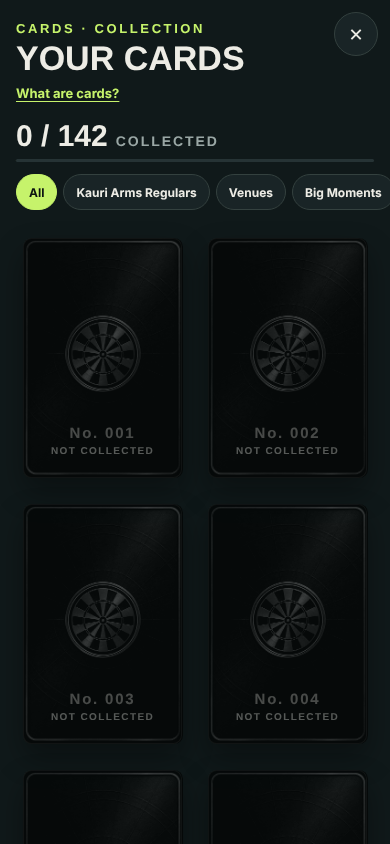
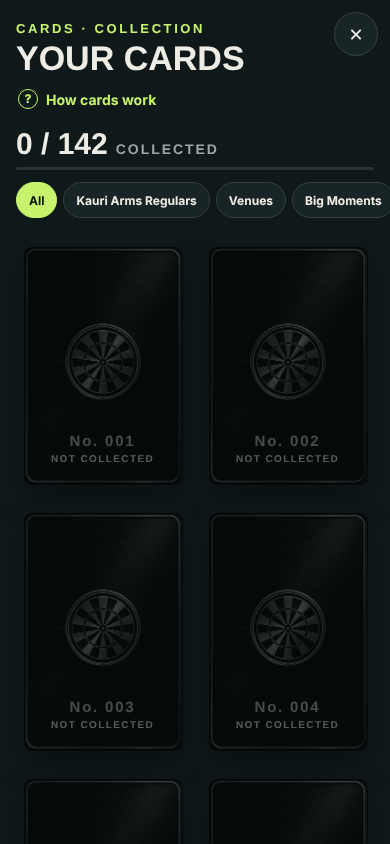
#13 round 2 (ChatGPT 7.8): shorter welcome copy, compact bottom-sheet explainer clear of the close button, How cards work link with a 44px target
Claude-Session: https://claude.ai/code/session_01WmQEKVsLutVo52VGmj2r97

diff --git a/tc/core.js b/tc/core.js
@@ -283,14 +283,15 @@
   function cardsIntro(then) {
     const el = sheet('tc-intro', `<div class="tcpk__kicker">Cards</div><h2 class="tc-h">What are cards?</h2>
       <ol class="tc-introl">
-        <li><b>Earn a pick</b><span>Big moments earn a card pick: a 180, a 100+ checkout, a nine-darter, achievements and stat milestones.</span></li>
-        <li><b>Keep one of three</b><span>Each pick deals three cards and you keep one. A nine-darter keeps all three.</span></li>
-        <li><b>Unlock rewards</b><span>Many cards unlock kit, wearables, celebrations and titles. Equip them in Player · Loadout. Finishing a set unlocks more.</span></li>
-        <li><b>Find them</b><span>Everything you own is in Cards on the Career tab. Spare legendaries can be swapped with mates.</span></li>
+        <li><b>Earn picks</b><span>Hit 180s, check out 100+, or complete achievements.</span></li>
+        <li><b>Keep one of three</b><span>Three cards appear. Pick one to keep. Nine&#8209;darter? Keep all three.</span></li>
+        <li><b>Unlock rewards</b><span>Many cards unlock kit and celebrations. Equip them in Player · Loadout.</span></li>
+        <li><b>Find them</b><span>Your collection is in Career → Cards.</span></li>
       </ol>
       <button type="button" class="tcpk__btn tcpk__btn--go tc-introgo">${then ? 'Open my picks' : 'Got it'}</button>`);
+    const x = el.querySelector('.tc-x'); el.querySelector('.tc-sh-in').appendChild(x);
     let gone = false; const go = () => { if (gone) return; gone = true; el.classList.add('out'); setTimeout(() => el.remove(), 200); then && then(); };
-    el.querySelector('.tc-introgo').onclick = go; el.querySelector('.tc-x').onclick = go;
+    el.querySelector('.tc-introgo').onclick = go; x.onclick = go; el.addEventListener('click', e => { if (e.target === el) go(); });
     return el;
   }
   function openPack(picks, after) {
@@ -368,8 +369,8 @@
     const el = sheet('tc-welcome', `<div class="tc-wel"><div class="tc-wel-fan"><img src="assets/cards/back.webp" alt=""><img src="assets/cards/back.webp" alt=""><div class="tc-wel-peek"></div></div>
       <div class="tcpk__kicker">New in TOPS</div><h2 class="tc-h">Cards are here</h2>
       <div class="tc-wel-big"><b>${info.picks}</b><span>picks earned</span></div>
-      <p>${info.ach ? `From the ${info.ach} achievement${info.ach > 1 ? 's' : ''} you've already completed. ` : ''}From now on every 180, ton-plus checkout and achievement earns another.</p>
-      <ul class="tc-wel-how"><li><b>Keep one of three.</b> Each pick deals three cards and you keep one.</li><li><b>Unlock rewards.</b> Many cards unlock kit, wearables, celebrations and titles. Equip them in Player · Loadout.</li><li><b>Find them.</b> Everything you own is in Cards on the Career tab.</li></ul>
+      ${info.ach ? `<p>From the ${info.ach} achievement${info.ach > 1 ? 's' : ''} you've already completed.</p>` : ''}
+      <ul class="tc-wel-how"><li><b>Keep one of three.</b> Each pick deals three cards. You keep one.</li><li><b>Earn more.</b> 180s, 100+ checkouts and achievements.</li><li><b>Unlock rewards.</b> Many cards unlock kit and celebrations for Player · Loadout.</li><li><b>Find them</b> in Career → Cards.</li></ul>
       <button type="button" class="tcpk__btn tcpk__btn--go" id="tcWelGo">Open ${info.picks} picks</button><button type="button" class="tcpk__later" id="tcWelLater">Later</button></div>`);
     const pk = TCC.card(peek); pk.classList.add('is-flipped'); el.querySelector('.tc-wel-peek').appendChild(pk);
     save.tcIntro = save.tcIntro || Date.now(); keep(); // #13: the welcome carries the explainer, so no second sheet before the first pick
@@ -413,7 +414,7 @@
   function binder() {
     const t = st(); let filt = 'all';
     const nO = D.CARDS.filter(c => !c.exclusive && t.own[c.id]).length, nA = D.CARDS.filter(c => !c.exclusive).length;
-    const el = sheet('tc-binder', `<div class="tcpk__kicker">Cards · Collection</div><h2 class="tc-h">Your cards</h2><button type="button" class="tc-whatbtn" id="tcWhat">What are cards?</button><div class="tc-prog"><b>${nO} / ${nA}</b><span>Collected</span></div><i class="tc-progbar" style="--p:${nO / nA};display:block"></i>${t.srv ? `<button type="button" class="tc-tradebtn" id="tcTradeBtn"><i>⇄</i><span><b>Trades</b><small>Swap spare legendaries with your mates</small></span><em class="tc-tradebadge" hidden></em><i class="tc-chev">›</i></button>` : ''}<div class="tc-chips" id="tcChips"></div><div class="tc-grid" id="tcGrid"></div><div class="tc-sets" id="tcSets"></div>`);
+    const el = sheet('tc-binder', `<div class="tcpk__kicker">Cards · Collection</div><h2 class="tc-h">Your cards</h2><button type="button" class="tc-whatbtn" id="tcWhat"><i>?</i>How cards work</button><div class="tc-prog"><b>${nO} / ${nA}</b><span>Collected</span></div><i class="tc-progbar" style="--p:${nO / nA};display:block"></i>${t.srv ? `<button type="button" class="tc-tradebtn" id="tcTradeBtn"><i>⇄</i><span><b>Trades</b><small>Swap spare legendaries with your mates</small></span><em class="tc-tradebadge" hidden></em><i class="tc-chev">›</i></button>` : ''}<div class="tc-chips" id="tcChips"></div><div class="tc-grid" id="tcGrid"></div><div class="tc-sets" id="tcSets"></div>`);
     { const tb = el.querySelector('#tcTradeBtn'); if (tb) { tb.onclick = () => trades(); tradeCount().then(n => { const b = tb.querySelector('.tc-tradebadge'); if (n) { b.hidden = false; b.textContent = n + ' new'; } }); } }
     el.querySelector('#tcWhat').onclick = () => cardsIntro(null);
     const chips = el.querySelector('#tcChips'), grid = el.querySelector('#tcGrid');

diff --git a/wip/scripts/cards13.js b/wip/scripts/cards13.js
@@ -28,7 +28,7 @@ const r={};
  await clickSel(p,'#tcWelLater');await p.waitForTimeout(500);r.welcomeDismissed=await p.evaluate(()=>!document.querySelector('.tc-welcome'));
  await p.evaluate(()=>{delete save.tcIntro;TC_API.award('c13b:'+Date.now(),'max','180');window.tcOpenPicks();});await p.waitForTimeout(700);
  r.existingSheet=await p.evaluate(()=>{const e=document.querySelector('.tc-intro');return e?{rows:e.querySelectorAll('.tc-introl li').length,btn:(e.querySelector('.tc-introgo')||{}).textContent}:null;});
- await shot(p,'intro');
+ await shot(p,'intro');r.introNoClash=await p.evaluate(()=>{const h=document.querySelector('.tc-intro .tc-h').getBoundingClientRect(),x=document.querySelector('.tc-intro .tc-x').getBoundingClientRect();const t=document.createRange();t.selectNodeContents(document.querySelector('.tc-intro .tc-h'));const tr=t.getBoundingClientRect();return tr.right<=x.left-4||tr.bottom<=x.top||tr.top>=x.bottom;});r.introFits=await p.evaluate(()=>{const g=document.querySelector('.tc-intro .tc-introgo').getBoundingClientRect();return g.bottom<=innerHeight;});
  await p.evaluate(()=>{window.__clk=[];document.addEventListener('click',e=>{window.__clk.push((e.target.className||e.target.tagName)+'|'+document.querySelectorAll('.tc-sheet').length);},true);});
  r.introAt=await p.evaluate(()=>{const g=document.querySelector('.tc-intro .tc-introgo');const q=g.getBoundingClientRect();const top=document.elementFromPoint(q.x+q.width/2,q.y+q.height/2);return {btn:[q.x|0,q.y|0,q.width|0,q.height|0],top:top&&String(top.className).slice(0,40),sheets:[...document.querySelectorAll('.tc-sheet')].map(e=>e.className)};});
  await clickSel(p,'.tc-intro .tc-introgo');await p.waitForTimeout(1500);r.clk=await p.evaluate(()=>window.__clk);r.after=await p.evaluate(()=>({sheets:[...document.querySelectorAll('.tc-sheet,.tcpk')].map(e=>e.className.slice(0,30)),picks:TC_API.st().picks.filter(p=>p.chosen==null).length}));
@@ -40,9 +40,9 @@ const r={};
  await p.evaluate(()=>{document.querySelectorAll('.tc-sheet,.tcpk').forEach(e=>e.remove());TC_API.binder();});await p.waitForTimeout(700);
  await shot(p,'binder');
  r.preWhat=await p.evaluate(()=>[...document.querySelectorAll('.tc-sheet,.tcpk')].map(e=>e.className.slice(0,30)));await clickSel(p,'#tcWhat');await p.waitForTimeout(600);
- r.linkBtn=await p.evaluate(()=>{const e=document.querySelector('.tc-intro .tc-introgo');return e&&e.textContent;});
+ await shot(p,'binderhelp');r.whatTap=await p.evaluate(()=>document.getElementById('tcWhat').getBoundingClientRect().height|0);r.linkBtn=await p.evaluate(()=>{const e=document.querySelector('.tc-intro .tc-introgo');return e&&e.textContent;});
  await clickSel(p,'.tc-intro .tc-introgo');await p.waitForFunction(()=>!document.querySelector('.tc-intro'),null,{timeout:5000}).catch(()=>{});
  r.backToBinder=await p.evaluate(()=>!!document.querySelector('.tc-binder')&&!document.querySelector('.tc-intro'));r.bDbg=await p.evaluate(()=>[...document.querySelectorAll('.tc-sheet,.tcpk')].map(e=>e.className.slice(0,30)));
  r.peB=p.pe.slice();await p.close();}
-const pass=r.tile==='Cards'&&r.welcome&&r.welcome.how===3&&r.welcome.intro&&r.welcomeFits&&r.welcomeFits.bottom<=r.welcomeFits.vh&&r.newNoSecondSheet&&r.newPack&&r.existingSheet&&r.existingSheet.btn==='Open my picks'&&r.existingPack&&r.secondTimeNoSheet&&r.linkBtn==='Got it'&&r.backToBinder&&!r.peA.length&&!r.peB.length;
+const pass=r.tile==='Cards'&&r.welcome&&r.welcome.how===4&&r.welcome.intro&&r.welcomeFits&&r.welcomeFits.bottom<=r.welcomeFits.vh&&r.newNoSecondSheet&&r.newPack&&r.existingSheet&&r.existingSheet.btn==='Open my picks'&&r.existingPack&&r.secondTimeNoSheet&&r.linkBtn==="Got it"&&r.backToBinder&&r.introNoClash&&r.introFits&&r.whatTap>=44&&!r.peA.length&&!r.peB.length;
 console.log(tag,pass?'PASS':'FAIL',JSON.stringify(r));await b.close();process.exit(pass?0:1);})();

diff --git a/tc/tc.css b/tc/tc.css
@@ -332,14 +332,19 @@ body.tc-oppwalk .ach-toasts{visibility:hidden}
 .tc-wk-ban em{font-size:13px}.tc-wk-ban span{font-size:12px}
 
 /* #13 What are cards? */
-.tc-wel-how{list-style:none;margin:2px 0 10px;padding:0;max-width:340px;display:grid;gap:7px;text-align:left}
+.tc-wel-how{list-style:none;margin:4px 0 16px;padding:0;max-width:340px;display:grid;gap:8px;text-align:left}
 .tc-wel-how li{font-size:14px;line-height:1.4;color:var(--muted,#9AA7A5)}
 .tc-wel-how b{color:var(--text,#EDECE5);font-weight:800}
-.tc-whatbtn{display:inline-flex;align-items:center;gap:6px;margin:-4px 0 12px;padding:6px 0;background:none;border:0;color:var(--acc,#D8F25A);font:700 13px Manrope,system-ui,sans-serif;cursor:pointer;text-decoration:underline;text-underline-offset:3px}
-.tc-intro .tc-sh-in{max-width:520px;margin:0 auto}
-.tc-introl{list-style:none;counter-reset:ti;margin:6px 0 22px;padding:0;display:grid;gap:10px}
-.tc-introl li{counter-increment:ti;display:grid;grid-template-columns:30px 1fr;column-gap:12px;row-gap:2px;padding:12px 14px;border-radius:12px;background:rgba(255,255,255,.05);border:1px solid rgba(255,255,255,.07)}
-.tc-introl li::before{content:counter(ti);grid-row:1/span 2;width:30px;height:30px;border-radius:50%;display:grid;place-items:center;background:var(--acc,#D8F25A);color:#10191A;font:900 15px Manrope,system-ui,sans-serif}
-.tc-introl b{font:800 15px Manrope,system-ui,sans-serif;color:var(--text,#EDECE5)}
+.tc-whatbtn{display:inline-flex;align-items:center;gap:8px;min-height:44px;margin:-6px 0 6px;padding:0 2px;background:none;border:0;color:var(--acc,#D8F25A);font:700 14px Manrope,system-ui,sans-serif;cursor:pointer}
+.tc-whatbtn i{width:20px;height:20px;border-radius:50%;border:1.5px solid currentColor;display:grid;place-items:center;font:800 12px/1 Manrope,system-ui,sans-serif;font-style:normal}
+.tc-intro{background:rgba(6,10,11,.74);display:flex;align-items:flex-end;justify-content:center}
+.tc-intro .tc-sh-in{position:relative;width:100%;max-width:520px;margin:0;background:var(--base,#10191A);border:1px solid var(--divider,#34413F);border-bottom:0;border-radius:20px 20px 0 0;padding-top:20px}
+.tc-intro .tc-x{position:absolute;top:12px;right:12px}
+.tc-intro .tc-h{padding-right:56px;margin-bottom:12px}
+@media (min-width:700px){.tc-intro{align-items:center}.tc-intro .tc-sh-in{border-bottom:1px solid var(--divider,#34413F);border-radius:20px}}
+.tc-introl{list-style:none;counter-reset:ti;margin:0 0 20px;padding:0;display:grid;gap:14px}
+.tc-introl li{counter-increment:ti;display:grid;grid-template-columns:28px 1fr;column-gap:12px;row-gap:1px}
+.tc-introl li::before{content:counter(ti);grid-row:1/span 2;width:28px;height:28px;border-radius:50%;display:grid;place-items:center;background:var(--acc,#D8F25A);color:#10191A;font:900 14px Manrope,system-ui,sans-serif}
+.tc-introl b{font:800 15px/1.3 Manrope,system-ui,sans-serif;color:var(--text,#EDECE5)}
 .tc-introl span{font-size:14px;line-height:1.4;color:var(--muted,#9AA7A5)}
 .tc-introgo{width:100%}
